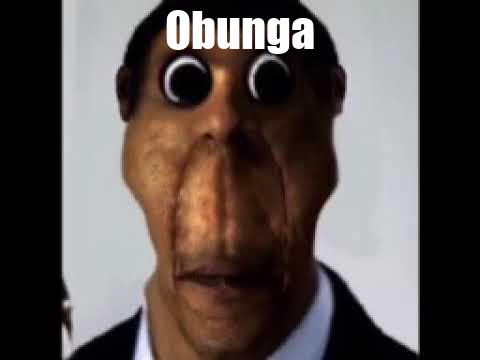
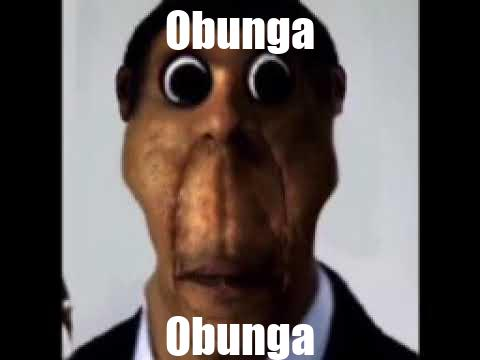
obunga

Changed region(s): [[0.3438, 0.8556, 0.6562, 1.0]]

diff --git a/Example-meme-generator/meme.py b/Example-meme-generator/meme.py
@@ -13,4 +13,13 @@ while topFont.getsize(topText)[1] < img_fraction*img.size[1]:
     topFontSize += 1
     topFont = ImageFont.truetype("impact.ttf", topFontSize)
 draw.text((img.size[0]/2-topFont.getsize(topText)[0]/2,0),topText,(255,255,255),font=topFont)
+
+bottomText = "Obunga"
+bottomFontSize = 1
+img_fraction = 0.15
+bottomFont = ImageFont.truetype("impact.ttf", bottomFontSize)
+while bottomFont.getsize(bottomText)[1] < img_fraction*img.size[1]:
+    bottomFontSize += 1
+    bottomFont = ImageFont.truetype("impact.ttf", bottomFontSize)
+draw.text((img.size[0]/2-bottomFont.getsize(bottomText)[0]/2,img.size[1]-bottomFont.getsize(bottomText)[1]),bottomText,(255,255,255),font=bottomFont)
 img.save('sample-out.jpg')
